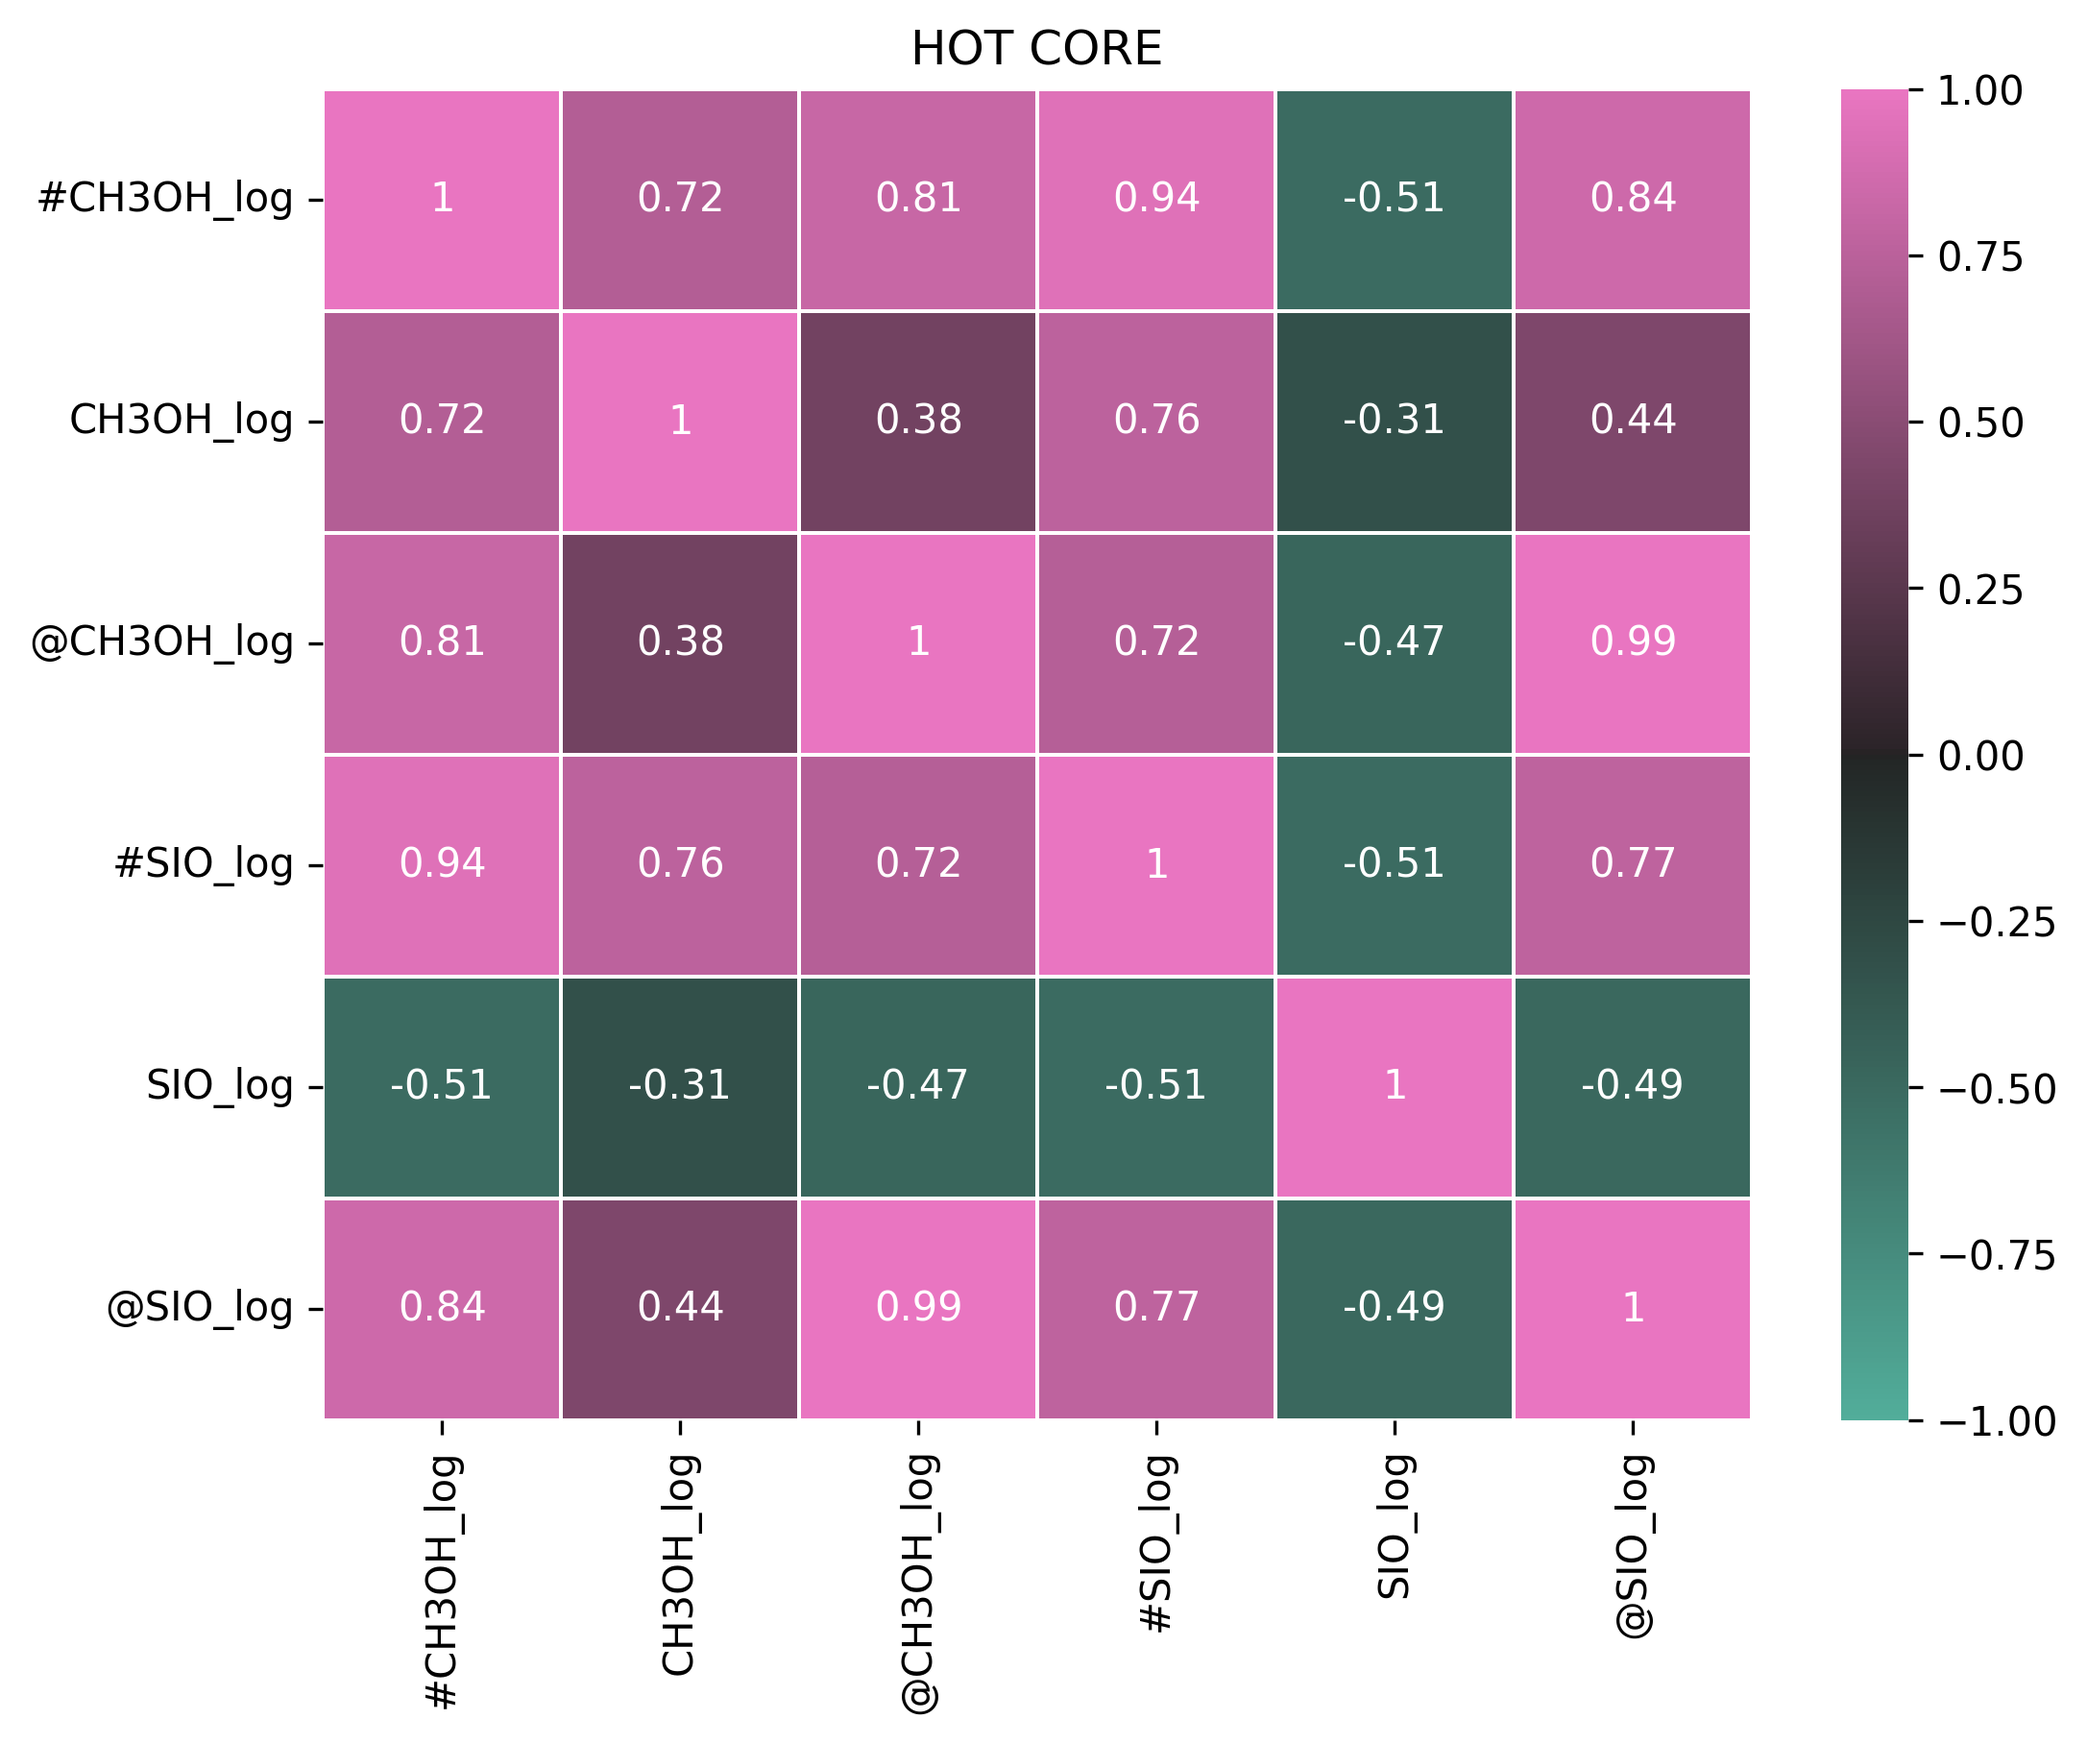
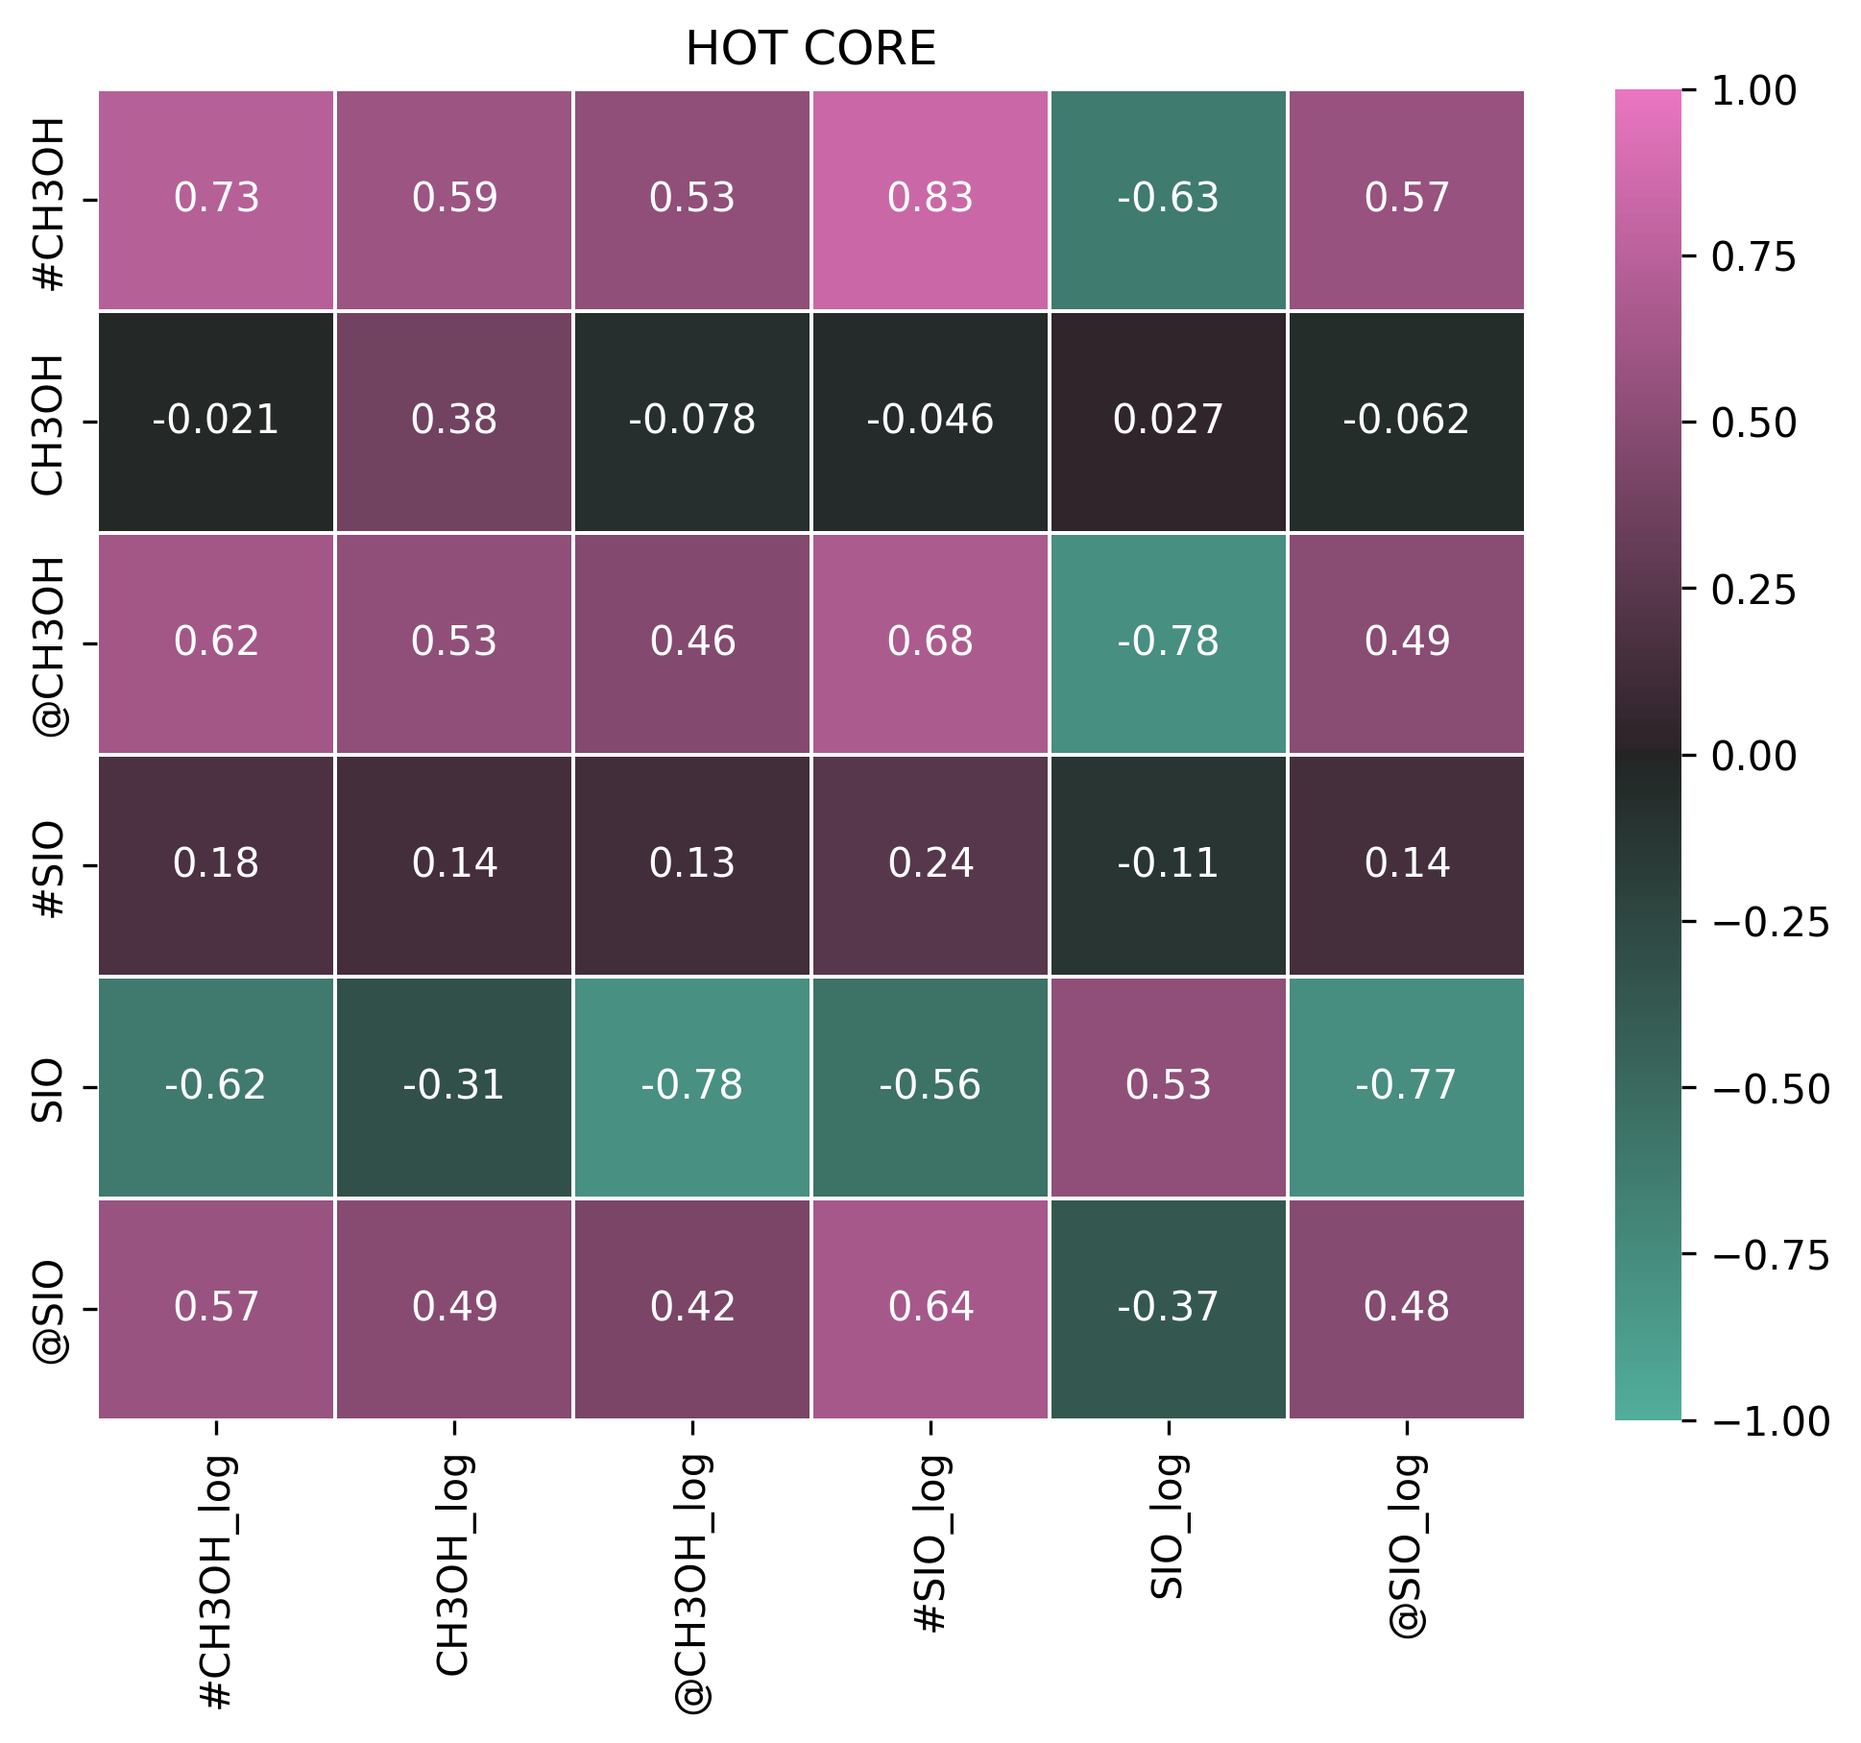
fix

diff --git a/Grid/ScatterPlot.py b/Grid/ScatterPlot.py
@@ -15,7 +15,10 @@ def makeDataframe(filePath: str, tdf):
         if prop == constants.SHOCKVEL: df[prop]=tdf.at[filePath,prop]
     return df
 
-def corrGrid(df, xaxis, yaxis, tipo: str, barrera=0, singleAxis=False):
+def corrGrid(df, xaxis, yaxis, tipo: str, barrera=0):
+    if xaxis==yaxis: singleAxis=True
+    else: singleAxis=False
+
     if singleAxis:
         cor = df.loc[:,xaxis].corr()
         cor=cor[cor.abs().ge(barrera)].dropna(how='all')
@@ -51,7 +54,7 @@ logspecies= [f'{prop}_log' for prop in species]
 runs = {constants.SHOCK: '2024-07-01_124848', constants.HOTCORE: '2024-07-01_134429'}
 logscales = [[False, False], [True, False], [False, True], [True, True]]
 
-singleAxis= False
+singleAxis= True
 
 print('singleAxis',singleAxis)
 for tipo in runs:
@@ -81,7 +84,7 @@ for tipo in runs:
 
         print(tipo, logxscale, logyscale, 'corr')
         figName=folder.format('AnalysisPlots', tipo)+f"{'species_' if singleAxis else ''}CorrGrid{'_log' if logxscale else '_lin'}{'_log' if logyscale else '_lin'}.png"
-        corrGrid(df, xaxis, yaxis, tipo, 0, singleAxis).savefig(figName, dpi=300, bbox_inches='tight')
+        corrGrid(df, xaxis, yaxis, tipo, 0).savefig(figName, dpi=300, bbox_inches='tight')
         figName=folder.format('AnalysisPlots', tipo)+f"{'species_' if singleAxis else ''}focusedCorrGrid{'_log' if logxscale else '_lin'}{'_log' if logyscale else '_lin'}.png"
-        corrGrid(df, xaxis, yaxis, tipo, 0.5, singleAxis).savefig(figName, dpi=300, bbox_inches='tight')
+        corrGrid(df, xaxis, yaxis, tipo, 0.5).savefig(figName, dpi=300, bbox_inches='tight')
         plt.close()
